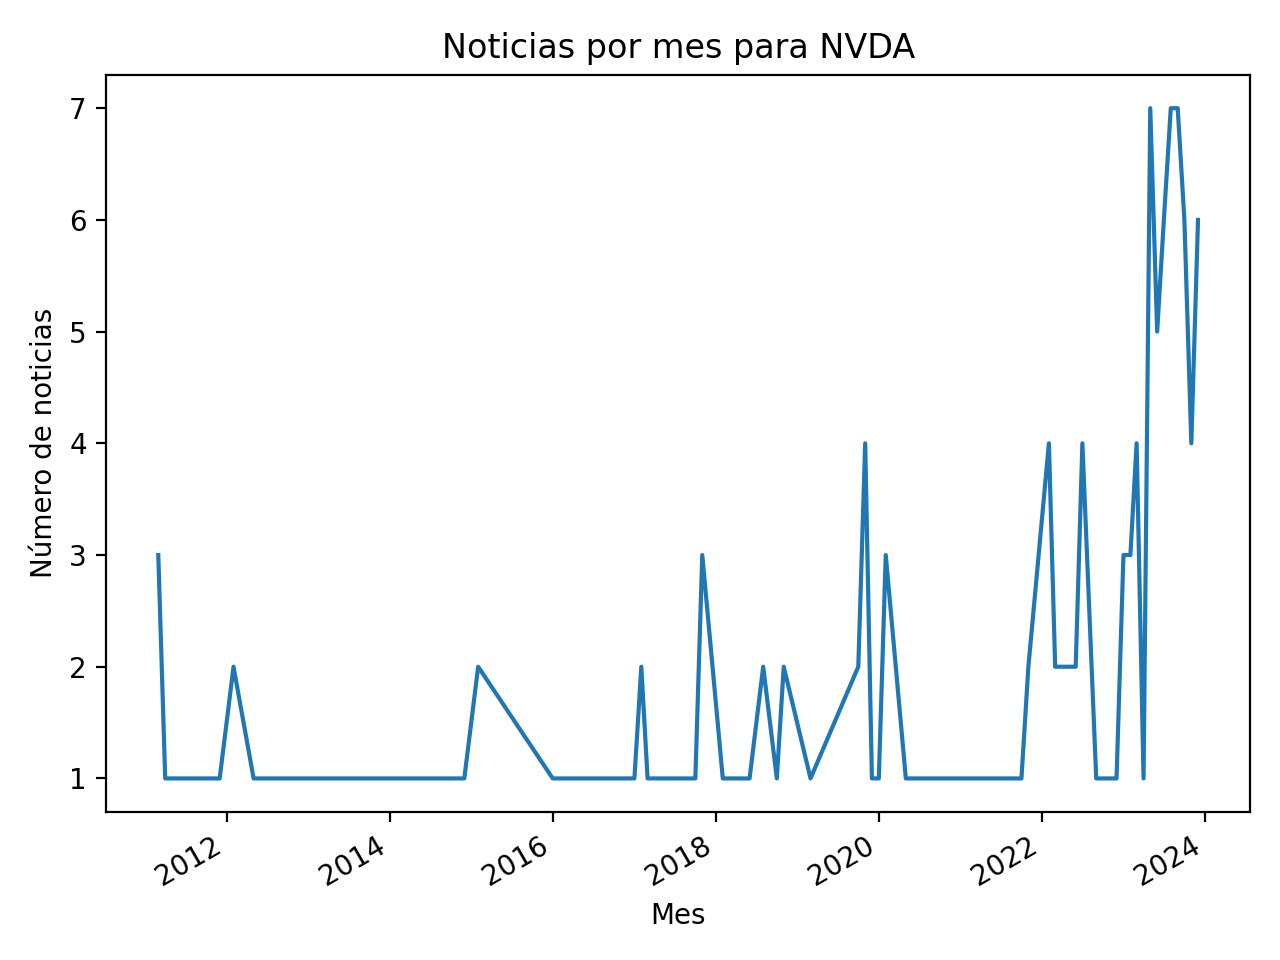
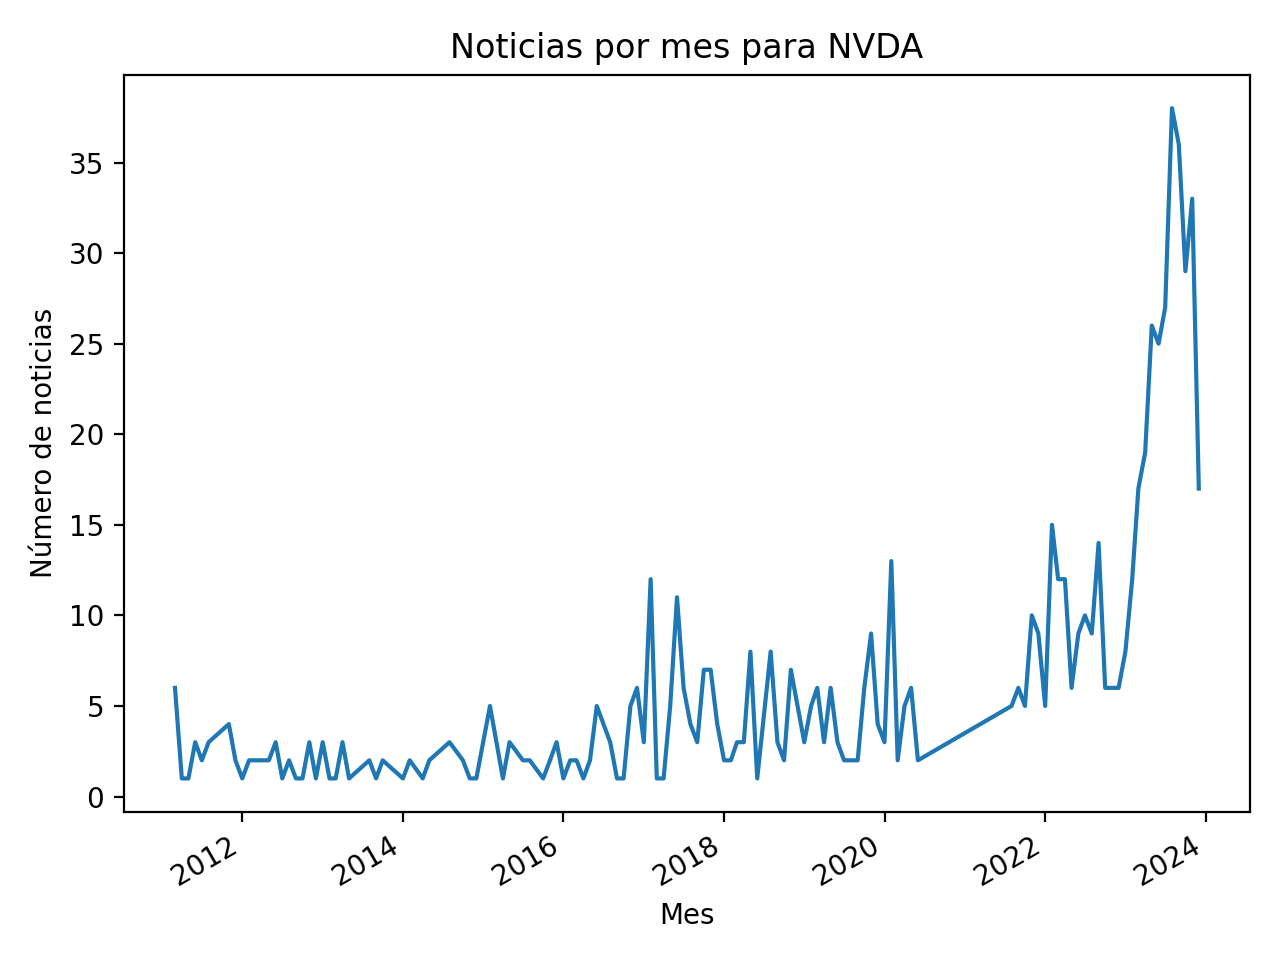
Pipeline de extraccion de sentimiento y clustering añadido

diff --git a/src/eda/eda_fnspid_full_stream_analysis.py b/src/eda/eda_fnspid_full_stream_analysis.py
@@ -1,0 +1,112 @@
+import os
+import time
+from collections import Counter, defaultdict
+from datasets import load_dataset
+import pandas as pd
+
+MAX_ROWS = 60_000_000
+LOG_EVERY = 200_000
+CHUNK_SIZE = 100_000
+MAX_RETRIES = 10
+
+def main():
+    os.makedirs("outputs/eda/ticker_quality_raw", exist_ok=True)
+    out_dir = "outputs/eda/ticker_quality_raw"
+
+    for f in os.listdir(out_dir):
+        if f.endswith(".parquet"):
+            os.remove(os.path.join(out_dir, f))
+
+    total = 0
+    missing = 0
+    ticker_counts = Counter()
+    news_per_day = Counter()
+    ticker_day_counts = defaultdict(int)
+    valid_rows_buffer = []
+    chunk_id = 0
+    retries = 0
+
+    while retries < MAX_RETRIES:
+        try:
+            ds = load_dataset("Zihan1004/FNSPID", split="train", streaming=True)
+
+            # Saltarse las filas ya procesadas
+            print(f"Retomando desde fila {total:,}...")
+            for i, row in enumerate(ds):
+                if i < total:
+                    continue  # Saltar hasta donde nos quedamos
+
+                total += 1
+                ticker = row.get("Stock_symbol")
+                date = row.get("Date")
+
+                if ticker is None or str(ticker).strip() == "":
+                    missing += 1
+                else:
+                    ticker = str(ticker).strip()
+                    ticker_counts[ticker] += 1
+                    valid_rows_buffer.append(row)
+
+                    if date:
+                        date = str(date)[:10]
+                        news_per_day[date] += 1
+                        ticker_day_counts[(date, ticker)] += 1
+
+                if len(valid_rows_buffer) >= CHUNK_SIZE:
+                    df_chunk = pd.DataFrame(valid_rows_buffer)
+                    df_chunk.to_parquet(f"{out_dir}/chunk_{chunk_id:04d}.parquet", index=False)
+                    chunk_id += 1
+                    valid_rows_buffer.clear()
+
+                if total % LOG_EVERY == 0:
+                    print(f"Processed {total:,} | missing {missing:,} ({missing/total:.3%})")
+
+                if total >= MAX_ROWS:
+                    break
+
+            break  # Si llegó hasta aquí sin error, salimos del while
+
+        except Exception as e:
+            retries += 1
+            wait = retries * 5
+            print(f"\n⚠  Conexión perdida en fila {total:,}: {e}")
+            print(f"Reintentando en {wait}s... (intento {retries}/{MAX_RETRIES})")
+            
+            # Guardar lo que hay en el buffer antes de reintentar
+            if valid_rows_buffer:
+                df_chunk = pd.DataFrame(valid_rows_buffer)
+                df_chunk.to_parquet(f"{out_dir}/chunk_{chunk_id:04d}.parquet", index=False)
+                chunk_id += 1
+                valid_rows_buffer.clear()
+            
+            time.sleep(wait)
+
+    # Guardar el resto
+    if valid_rows_buffer:
+        df_chunk = pd.DataFrame(valid_rows_buffer)
+        df_chunk.to_parquet(f"{out_dir}/chunk_{chunk_id:04d}.parquet", index=False)
+
+    # ---- SUMMARY ----
+    print("\n===== SUMMARY =====")
+    print("Total:", total)
+    print("Missing:", missing)
+    print("Missing ratio:", missing / total)
+    print("With symbol:", total - missing)
+    print("With symbol ratio:", (total - missing) / total)
+
+    print("\nTop tickers:")
+    for t, c in ticker_counts.most_common(20):
+        print(t, c)
+
+    pd.DataFrame(news_per_day.items(), columns=["date", "news_count"]).to_csv(
+        "outputs/eda/news_per_day_raw.csv", index=False
+    )
+    pd.DataFrame(
+        [(d, t, c) for (d, t), c in ticker_day_counts.items()],
+        columns=["date", "ticker", "news_count"]
+    ).to_csv("outputs/eda/news_per_day_ticker_raw.csv", index=False)
+
+    print(f"\n¡Listo! Chunks guardados en: {out_dir}")
+
+if __name__ == "__main__":
+    main()

diff --git a/src/news/subset_fnspid.py b/src/news/subset_fnspid.py
@@ -2,29 +2,38 @@ import pandas as pd
 from pathlib import Path
 
 IN_PATH = Path("data/raw/news/fnspid_headlines.csv")
-OUT_PATH = Path("data/processed/news/fnspid_headlines_200k.csv")
+OUT_PATH = Path("data/processed/news/fnspid_headlines_2m.csv")
 OUT_PATH.parent.mkdir(parents=True, exist_ok=True)
 
-TARGET_ROWS = 200_000
+TARGET_ROWS = 2_000_000
 CHUNKSIZE = 1_000_000
-PER_CHUNK = 10_000     # mejor representatividad (más chunks)
+PER_CHUNK = 50_000
 SEED = 42
 
+COLS = ["date", "title", "ticker", "publisher", "url"]
+
 def clean_chunk(chunk: pd.DataFrame) -> pd.DataFrame:
-    for col in ["date", "title", "ticker", "publisher", "url"]:
+    for col in COLS:
         if col in chunk.columns:
             chunk[col] = chunk[col].astype(str).str.strip()
             chunk.loc[chunk[col].isin(["", "None", "nan", "NaN"]), col] = pd.NA
 
-    chunk["date"] = pd.to_datetime(chunk["date"], errors="coerce")
-    chunk = chunk.dropna(subset=["date", "title", "url"])
-    chunk = chunk[chunk["title"].astype(str).str.contains(r"[A-Za-z]", regex=True, na=False)]
+    if "date" in chunk.columns:
+        chunk["date"] = pd.to_datetime(chunk["date"], errors="coerce")
+
+    needed = [c for c in ["date", "title", "url"] if c in chunk.columns]
+    chunk = chunk.dropna(subset=needed)
+
+    if "title" in chunk.columns:
+        chunk = chunk[chunk["title"].astype(str).str.contains(r"[A-Za-z]", regex=True, na=False)]
 
     return chunk
 
 def main():
-    parts = []
     kept = 0
+
+    if OUT_PATH.exists():
+        OUT_PATH.unlink()
 
     for chunk_id, chunk in enumerate(pd.read_csv(IN_PATH, chunksize=CHUNKSIZE)):
         chunk = clean_chunk(chunk)
@@ -36,19 +45,21 @@ def main():
             break
 
         take = min(PER_CHUNK, len(chunk), remaining)
-        sampled = chunk.sample(n=take, random_state=SEED + chunk_id)
+        sampled = chunk.sample(n=take, random_state=SEED + chunk_id).copy()
 
-        parts.append(sampled)
+        if "date" in sampled.columns:
+            sampled["date"] = pd.to_datetime(sampled["date"], errors="coerce").dt.date
+
+        present_cols = [c for c in COLS if c in sampled.columns]
+        sampled = sampled[present_cols]
+
+        header = (kept == 0)
+        sampled.to_csv(OUT_PATH, index=False, mode="a", header=header)
+
         kept += len(sampled)
-        print("Limpias seleccionadas:", kept)
+        print(f"Chunk {chunk_id}: añadidas {len(sampled)} | total {kept}/{TARGET_ROWS}")
 
-    df = pd.concat(parts, ignore_index=True).sample(frac=1, random_state=SEED)
-    df = df.head(TARGET_ROWS)
-
-    df["date"] = pd.to_datetime(df["date"], errors="coerce").dt.date
-
-    df.to_csv(OUT_PATH, index=False)
-    print("Guardado:", OUT_PATH, "Filas:", len(df))
+    print("Guardado:", OUT_PATH, "Filas:", kept)
 
 if __name__ == "__main__":
     main()

diff --git a/src/eda/eda_ticker_quality.py b/src/eda/eda_ticker_quality.py
@@ -1,0 +1,65 @@
+import pandas as pd
+import glob
+from pathlib import Path
+
+# -------- PATHS --------
+NEWS_DIR = Path("outputs/eda/ticker_quality_raw")
+OUT_DIR = Path("outputs/eda/ticker_quality")
+OUT_DIR.mkdir(parents=True, exist_ok=True)
+
+def main():
+    print("Loading news dataset...")
+
+    # ---- CAMBIO PRINCIPAL: leer parquets en lugar de CSV ----
+    files = sorted(glob.glob(str(NEWS_DIR / "*.parquet")))
+    news = pd.concat([pd.read_parquet(f) for f in files], ignore_index=True)
+
+    print(f"Total rows: {len(news)}")
+
+    col_mapping = {}
+    for col in news.columns:
+        c = col.lower()
+        if 'url' in c: col_mapping[col] = 'url'
+        elif 'symbol' in c or 'ticker' in c: col_mapping[col] = 'ticker'
+        elif 'title' in c: col_mapping[col] = 'title'
+
+    news = news.rename(columns=col_mapping)
+
+    # ================================
+    # 1. URL duplicated with tickers
+    # ================================
+    print("\n--- URL duplication analysis ---")
+    url_ticker_counts = (
+        news.groupby("url")["ticker"]
+        .nunique()
+        .sort_values(ascending=False)
+    )
+    print(url_ticker_counts.head(20))
+    print(f"Share URLs with multiple tickers: {(url_ticker_counts > 1).mean():.4f}")
+    url_ticker_counts.to_csv(OUT_DIR / "url_multi_ticker_counts.csv")
+
+    # ================================
+    # 2. Ticker in title
+    # ================================
+    print("\n--- Ticker in title analysis ---")
+    titulos = news['title'].astype(str).str.lower()
+    tickers = news['ticker'].astype(str).str.lower()
+    news['ticker_in_title'] = [tck in tit for tit, tck in zip(titulos, tickers)]
+    print(f"Ticker mentioned in title ratio: {news['ticker_in_title'].mean():.4f}")
+
+    # ================================
+    # 3. Top tickers
+    # ================================
+    print("\n--- Top tickers ---")
+    top_tickers = news["ticker"].value_counts()
+    print(top_tickers.head(30))
+    top_tickers.to_csv(OUT_DIR / "top_tickers.csv")
+
+    # ================================
+    # 4. Manual audit sample
+    # ================================
+    news.sample(200, random_state=42).to_csv(OUT_DIR / "manual_sample.csv", index=False)
+    print("\nManual audit sample exported.")
+
+if __name__ == "__main__":
+    main()

diff --git a/src/eda/eda_news_vs_market.py b/src/eda/eda_news_vs_market.py
@@ -3,7 +3,7 @@ import matplotlib.pyplot as plt
 from pathlib import Path
 
 # Paths
-NEWS_PATH = Path("data/processed/news/fnspid_headlines_200k.csv")
+NEWS_PATH = Path("data/processed/news/fnspid_headlines_2m.csv")
 MARKET_PATH = Path("data/raw/market/sp500_ohlc.csv")
 OUT_DIR = Path("outputs/eda/market_news")
 OUT_DIR.mkdir(parents=True, exist_ok=True)

diff --git a/src/eda/eda_news.py b/src/eda/eda_news.py
@@ -3,7 +3,7 @@ from pathlib import Path
 import pandas as pd
 import matplotlib.pyplot as plt
 
-NEWS_PATH = Path("data/processed/news/fnspid_headlines_200k.csv")
+NEWS_PATH = Path("outputs/eda/rows_with_tickers.csv")
 OUT_DIR = Path("outputs/eda/news")
 OUT_DIR.mkdir(parents=True, exist_ok=True)
 
